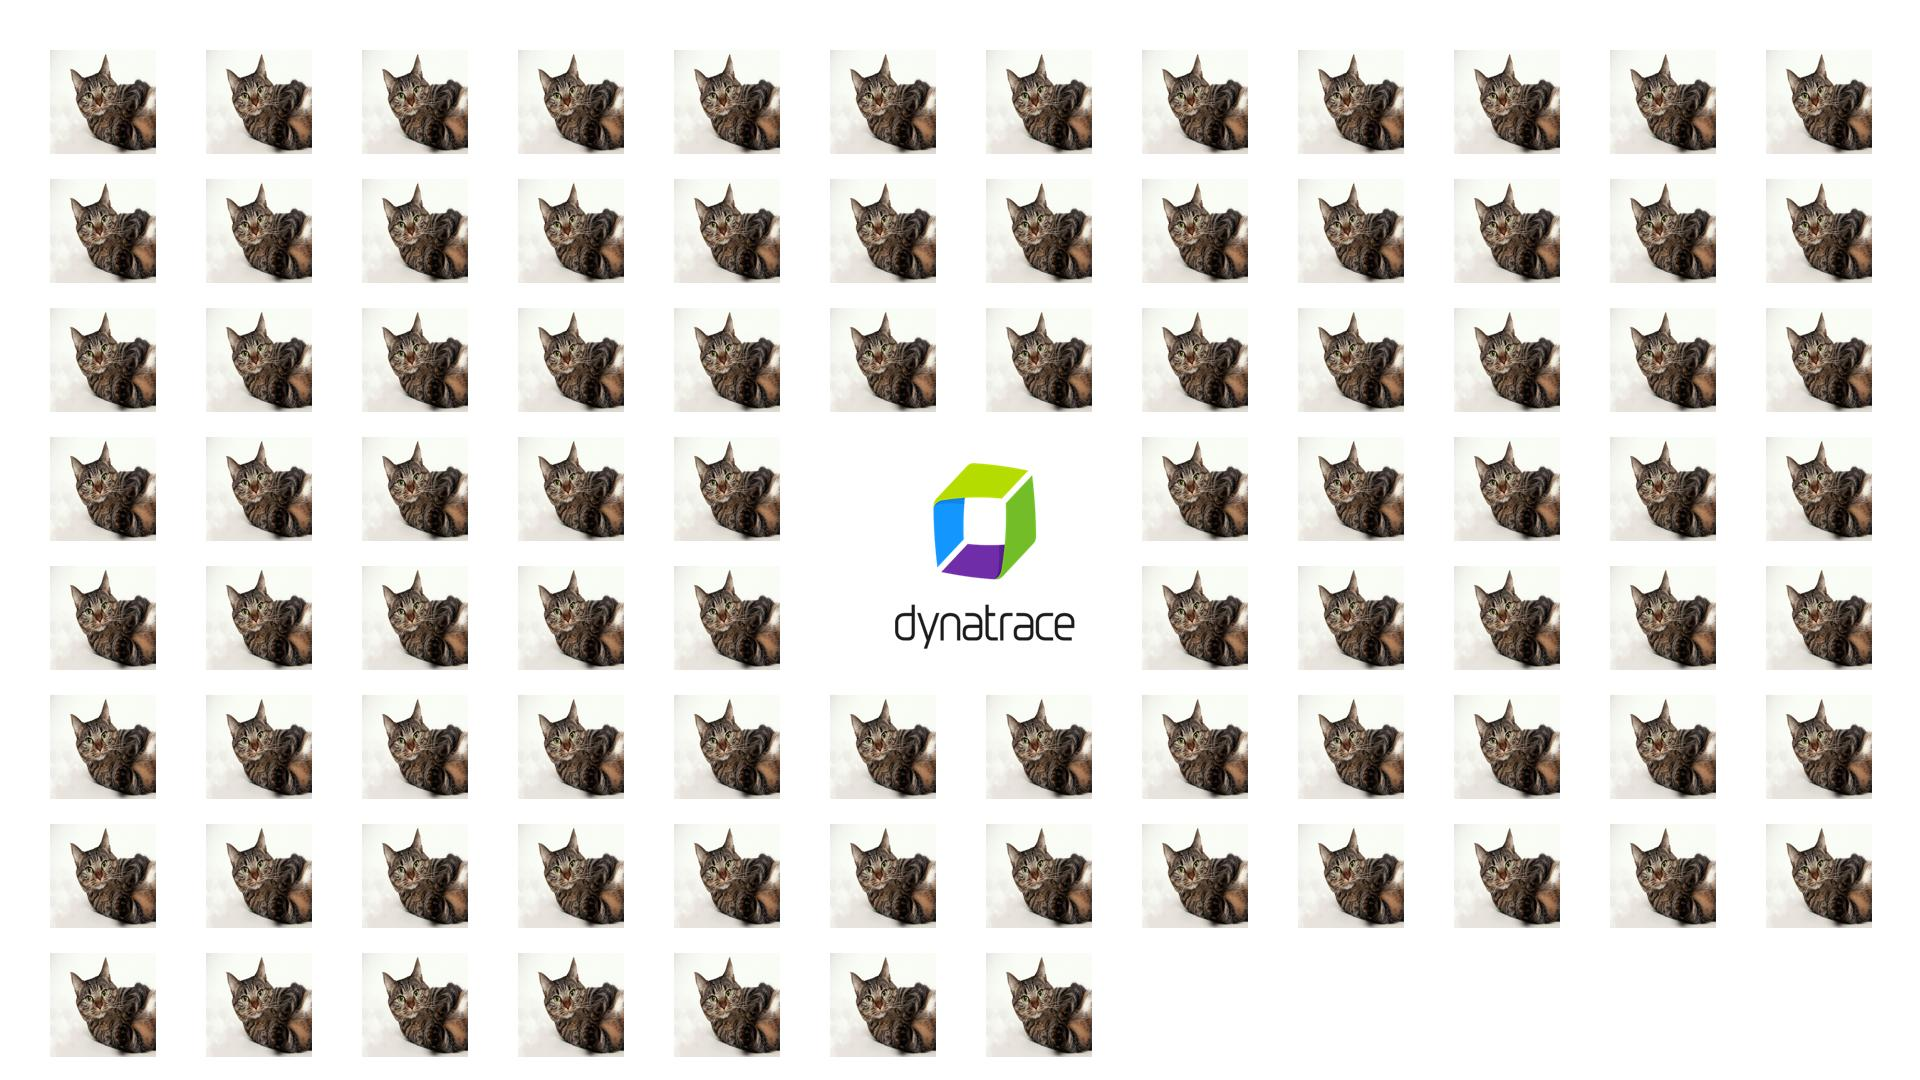
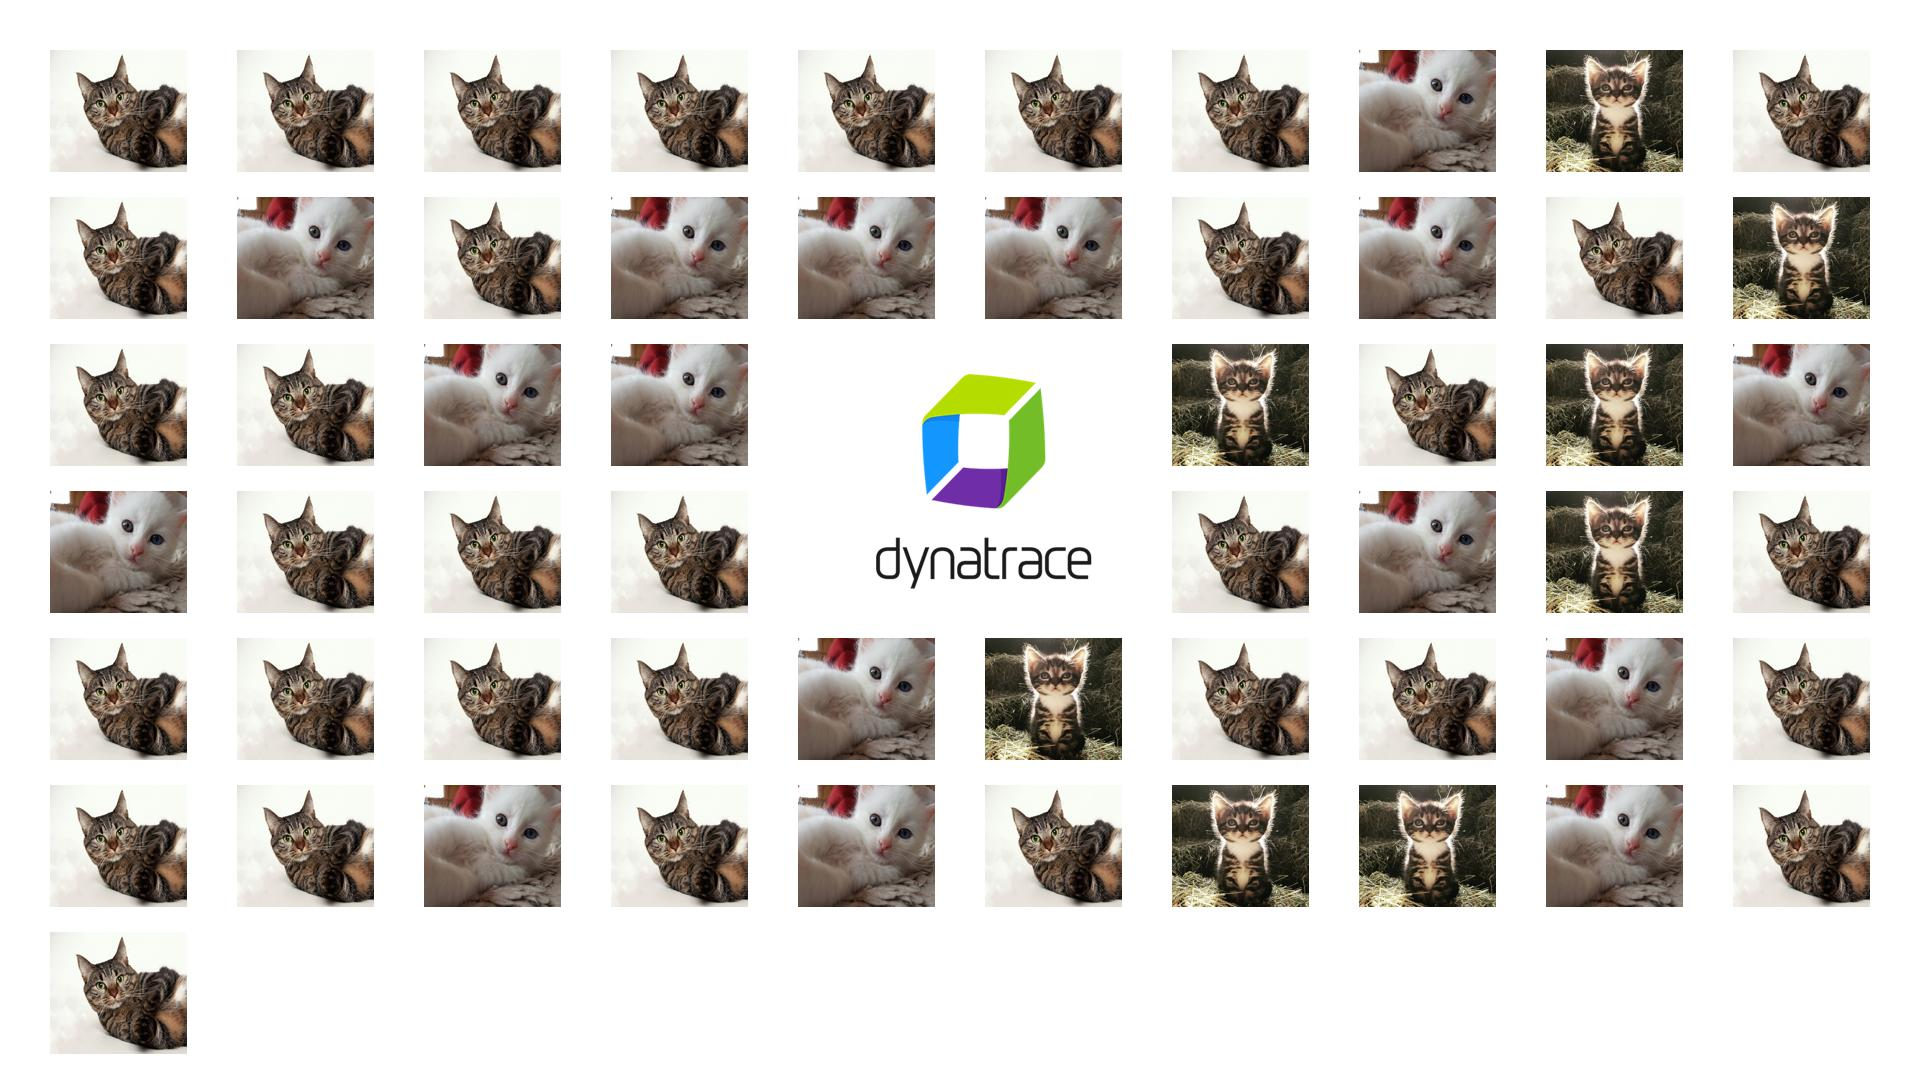
Main functionality completed - all tests passing

diff --git a/domain/Table.py b/domain/Table.py
@@ -1,54 +1,87 @@
 class Table():
     
     def __init__(self, number_of_images):
-        self.logo_size = 4
         self.number_of_images = number_of_images
+        self.logo_size = 4
 
-        self.size_of_the_square_side = self.getSquareSize(number_of_images)
+        length = 4
+        height = 2
 
-    def getTotalImageSize(self):
-        image_size = 100
-        whitespace = 25
-        margin = 75
-        
-        return self.size_of_the_square_side * (whitespace + image_size) + margin
+        while((length * height) < number_of_images):
+            if(height + 1 < length - 2):
+                height += 1
+            else:
+                length += 2
+
+        self.length = length
+        self.height = height
 
     def print(self):
         if(self.number_of_images == 0): 
             return ""
+        
+        return self.getImagesDistribution()
 
-        logo_coordinate = int((self.size_of_the_square_side / 2) - 1)
-        return self.getImagesDistribution(logo_coordinate)
-
-    def getImagesDistribution(self, logo_coordinate):
+    def getImagesDistribution(self):
         result = ""
         images_count = 0
- 
-        for row in range(0, self.size_of_the_square_side):
-            for col in range(0, self.size_of_the_square_side):
-                if(images_count < self.number_of_images): 
-                    if(self.isLogoCoordinate(row, col, logo_coordinate)):
+        
+        for x in range(0, self.height):
+            for y in range(0, self.length):
+                if(self.isValidToAddImage(images_count)):
+                    if(self.isLogoCoordinate(x, y)):
                         result = result + "l"
                     else:
                         result = result + "x"
                         images_count = images_count + 1
-
-            result = result + "s"
+            
+            if(self.isValidToAddImage(images_count)):
+                result = result + "s"
 
         return result
 
-    def isLogoCoordinate(self, row, col, logo_coordinate):
-        if(row == logo_coordinate and col == logo_coordinate): return True
-        elif(row == logo_coordinate and col == logo_coordinate + 1): return True
-        elif(row == logo_coordinate + 1 and col == logo_coordinate): return True
-        elif(row == logo_coordinate + 1 and col == logo_coordinate + 1): return True
+    def isValidToAddImage(self, images_count):
+        return  images_count < (self.number_of_images - self.logo_size)
+
+    def isLogoCoordinate(self, x, y):
+        logo_height = int((self.height / 2) - 1)
+        logo_length = int((self.length / 2) - 1)
+
+        if(x == logo_height and y == logo_length): return True
+        elif(x == logo_height + 1 and y == logo_length): return True
+        elif(x == logo_height and y == logo_length + 1): return True
+        elif(x == logo_height + 1 and y == logo_length + 1): return True
 
         return False
 
-    def getSquareSize(self, total_images):
-            square_size = 1
+    def getImageLength(self):
+        white_space = 50
 
-            while((square_size * square_size) < (total_images + self.logo_size)):
-                square_size = square_size + 1
-             
-            return square_size
+        return round((1920 - ((white_space * self.length) + 50)) / self.length)
+
+    def getImageHeight(self):
+        white_space = 25
+
+        return round((1080 - ((white_space * self.height) + 50)) / self.height)
+
+    def getLogoLength(self):
+        return (self.getImageLength() * 2) + (50 * 2) - 2
+
+    def getLogoHeight(self):
+        return (self.getImageHeight() * 2) + 25 - 1
+
+
+# def getSquareSize(self, total_images):
+#         square_size = 1
+
+#         while((square_size * square_size) < (total_images + self.logo_size)):
+#             square_size = square_size + 1
+            
+#         return square_size
+
+# def getTotalImageSize(self):
+#     image_size = 100
+#     whitespace = 25
+#     margin = 75
+    
+#     return self.size_of_the_square_side * (whitespace + image_size) + margin

diff --git a/domain/table_test.py b/domain/table_test.py
@@ -10,27 +10,28 @@ class TestTable(unittest.TestCase):
         self.assertEqual(table.print(), expectedResult)
 
     def test_1_should_return_table_with_some_content(self):
-        table = Table(60)
+        table = Table(125)
 
-        expectedResult = "xxxxxxxxsxxxxxxxxsxxxxxxxxsxxxllxxxsxxxllxxxsxxxxxxxxsxxxxxxxxsxxxxxxxxs"
+        self.assertEqual(table.getImageLength(), 84)
+        self.assertEqual(table.getImageHeight(), 89)
 
+        self.assertEqual(table.getLogoLength(), 266)
+        self.assertEqual(table.getLogoHeight(), 202)
+
+        expectedResult = "xxxxxxxxxxxxxxsxxxxxxxxxxxxxxsxxxxxxxxxxxxxxsxxxxxxllxxxxxxsxxxxxxllxxxxxxsxxxxxxxxxxxxxxsxxxxxxxxxxxxxxsxxxxxxxxxxxxxxsxxxxxxxxxxxxx"
         self.assertEqual(table.print(), expectedResult)
     
     def test_2_should_return_table_with_some_content(self):
-        table = Table(59)
+        table = Table(89)
 
-        expectedResult = "xxxxxxxxsxxxxxxxxsxxxxxxxxsxxxllxxxsxxxllxxxsxxxxxxxxsxxxxxxxxsxxxxxxxs"
+        self.assertEqual(table.getImageLength(), 106)
+        self.assertEqual(table.getImageHeight(), 104)
 
+        self.assertEqual(table.getLogoLength(), 310)
+        self.assertEqual(table.getLogoHeight(), 232)
+
+        expectedResult = "xxxxxxxxxxxxsxxxxxxxxxxxxsxxxxxxxxxxxxsxxxxxllxxxxxsxxxxxllxxxxxsxxxxxxxxxxxxsxxxxxxxxxxxxsxxxxx"
         self.assertEqual(table.print(), expectedResult)
-
-    def test_3_should_return_table_with_some_content(self):
-        table = Table(32)
-
-        expectedResult = "xxxxxxsxxxxxxsxxllxxsxxllxxsxxxxxxsxxxxxxs"
-
-        self.assertEqual(table.print(), expectedResult)
-
-# TODO: en vez de utilizar una distribucion de quadrado, hay que modificarlo para hacerlo en formato rectangulo
 
 if __name__ == '__main__':
     unittest.main()

diff --git a/main.py b/main.py
@@ -30,15 +30,16 @@ table = Table(len(images))
 
 isLogoIncluded = False
 
-x_image_size = 100
-y_image_size = 100
+x_image_size = table.getImageLength()
+y_image_size = table.getImageHeight()
 
-x_logo_size = 250
-y_logo_size = 250
+x_logo_size = table.getLogoLength()
+y_logo_size = table.getLogoHeight()
 
-white_space_size = 25
+x_white_space_size = 50
+y_white_space_size = 25
 
-blank_image = Image.new(mode = "RGB", size = (table.getTotalImageSize(), table.getTotalImageSize()), color="white")
+blank_image = Image.new(mode = "RGB", size = (1920, 1080), color="white")
 
 logo = Image.open("main_logo.png")
 logo = logo.resize((x_logo_size, y_logo_size))
@@ -59,6 +60,6 @@ for index in range(0, len(distribution)):
     
     if(current_value == "s"):
         x = 50
-        y = y + y_image_size +  white_space_size
+        y = y + y_image_size +  y_white_space_size
     else:
-        x = x + x_image_size + white_space_size
+        x = x + x_image_size + x_white_space_size
